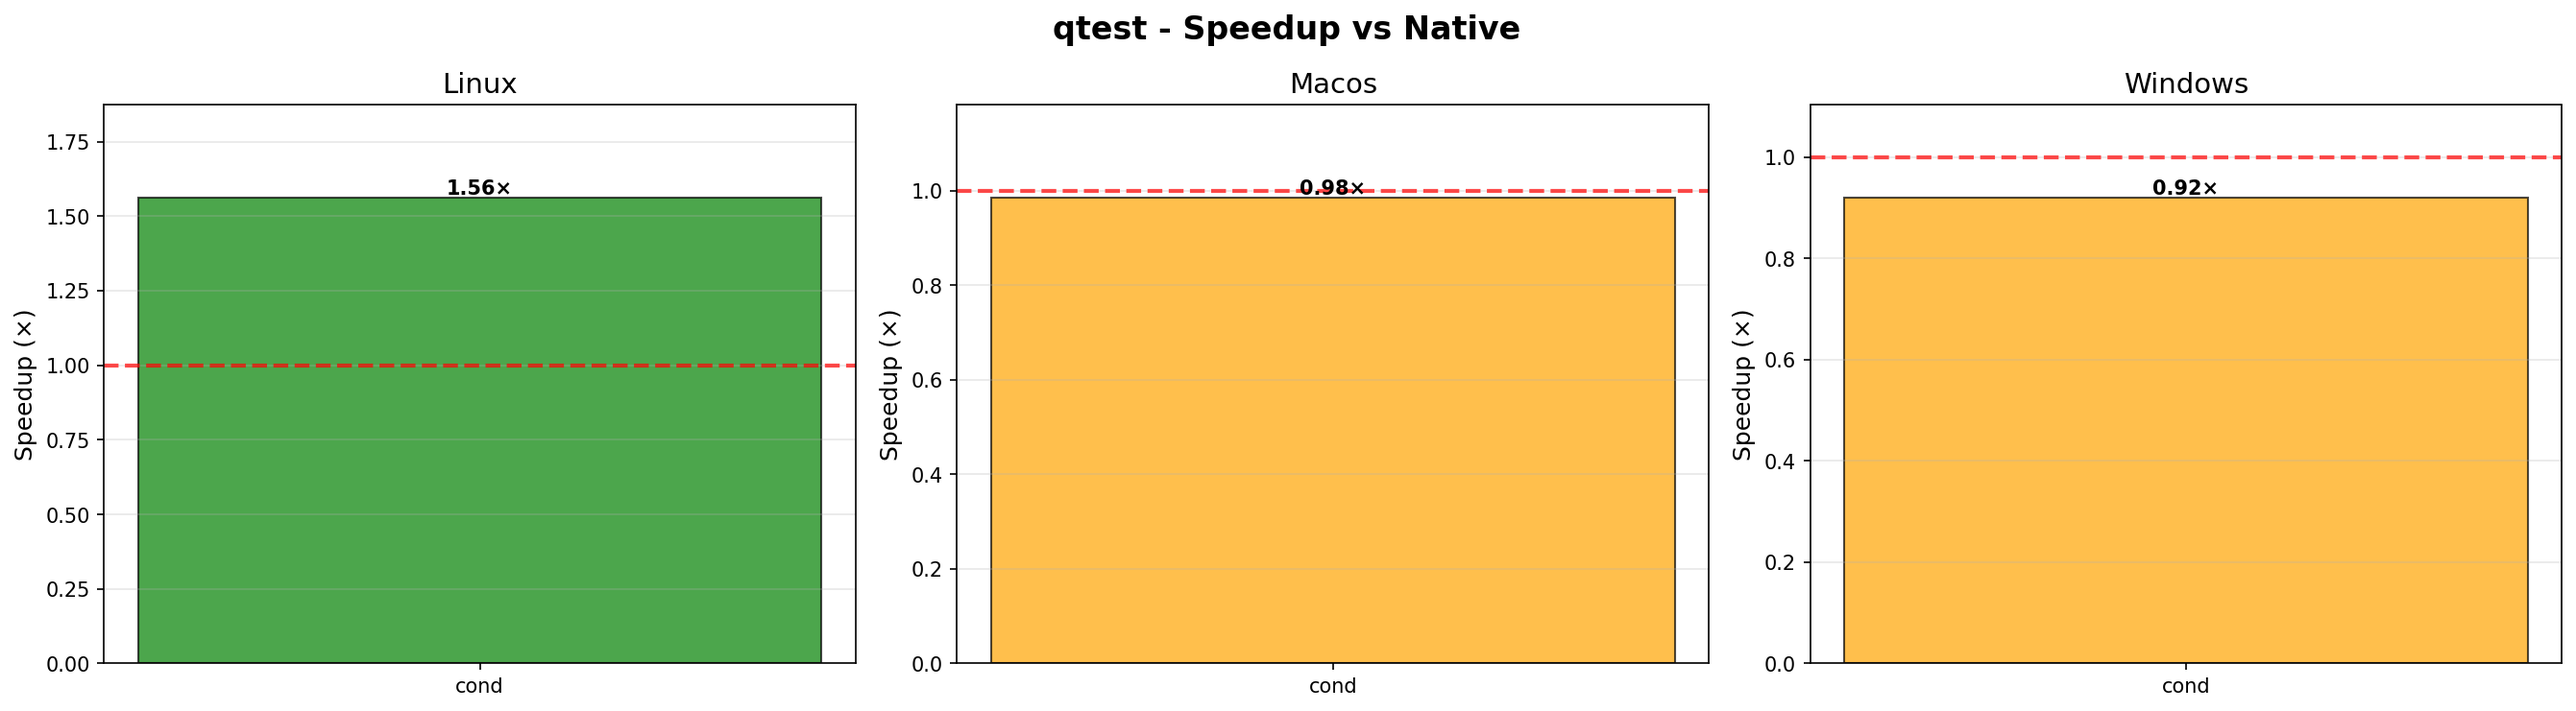
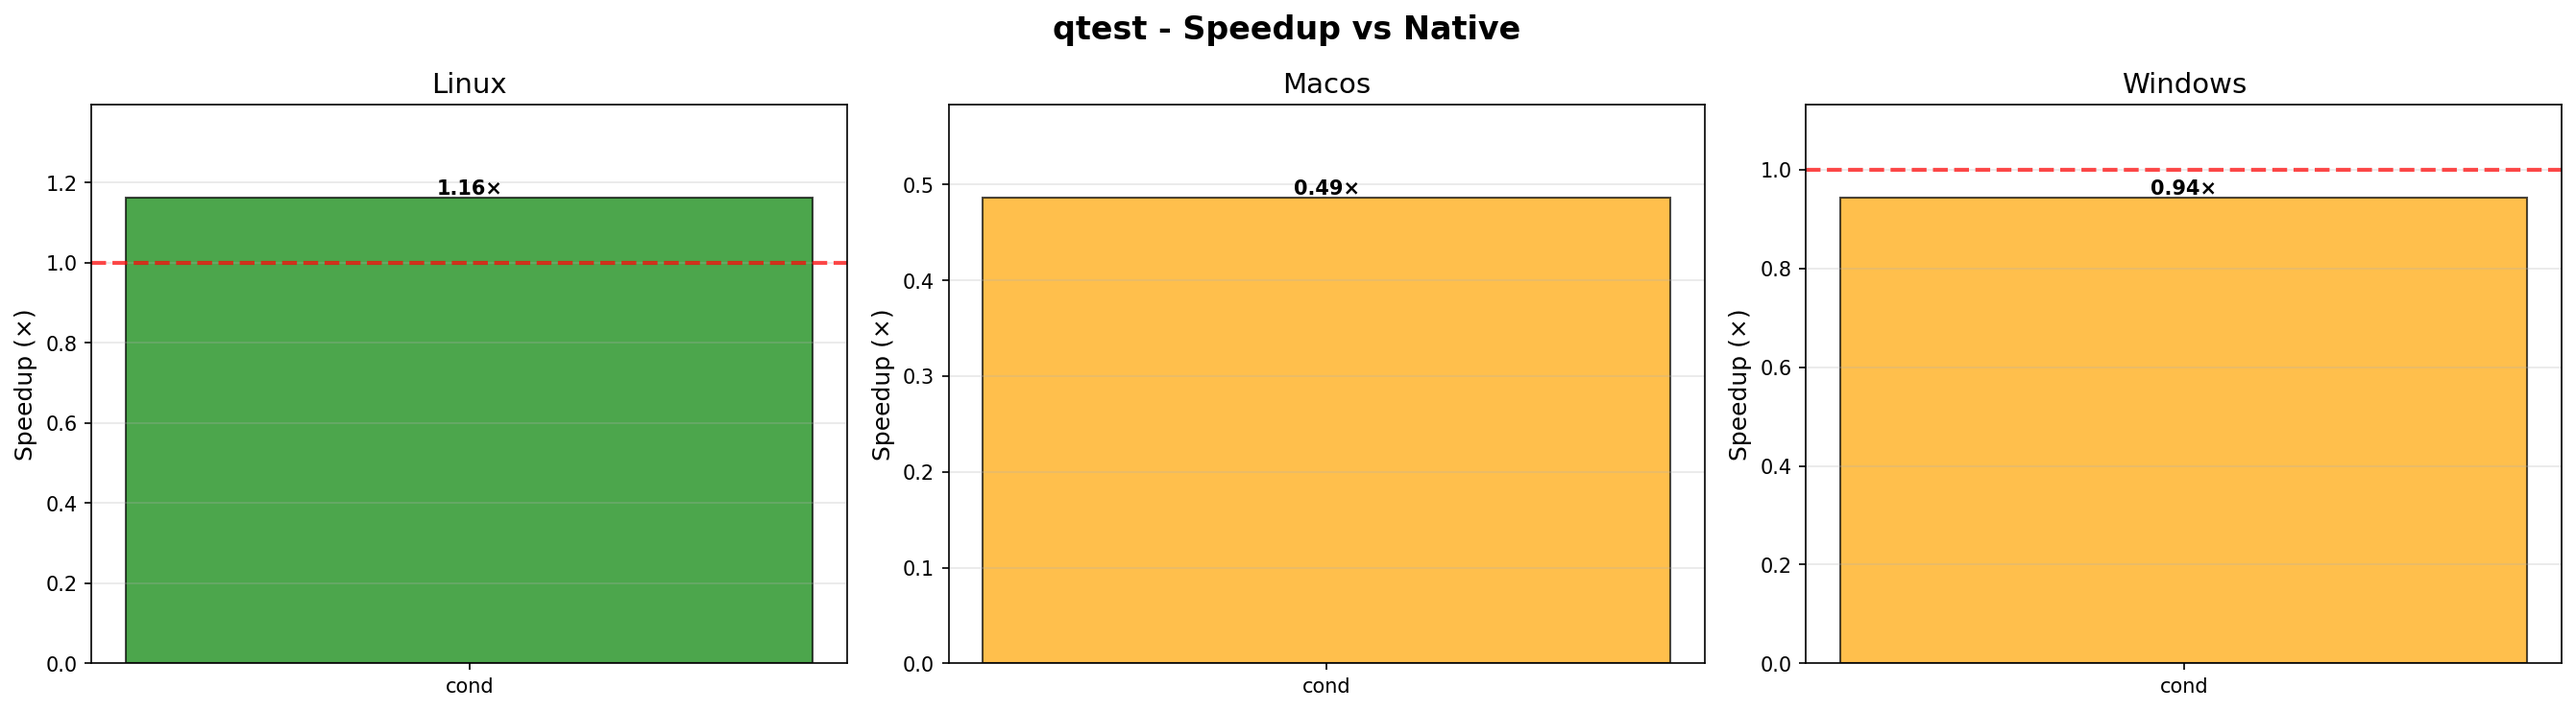
deploy: 0f0b938d1de918af7fa1bbf5fc2d698d0bd04238

diff --git a/performance/index.html b/performance/index.html
@@ -135,7 +135,7 @@
     </ul>
     
     <div class="footer">
-        <p>Generated: 2025-10-27 23:29:52 UTC</p>
+        <p>Generated: 2025-10-28 08:27:50 UTC</p>
         <p>Repository: <a href="https://github.com/kristjanvalur/fastcond">kristjanvalur/fastcond</a></p>
         <p>Documentation: <a href="https://github.com/kristjanvalur/fastcond#readme">README</a></p>
     </div>

diff --git a/performance/performance-comparison.md b/performance/performance-comparison.md
@@ -2,31 +2,31 @@
 
 | Platform | Test | Threads | Variant | Throughput (ops/sec) | Speedup vs Native |
 |----------|------|---------|---------|---------------------|-------------------|
-| linux | gil_test | 4 | fastcond_gil | 5,680 | N/A |
-| linux | gil_test | 4 | fastcond_gil | 5,759 | N/A |
-| linux | gil_test | 4 | native_gil | 5,765 | N/A |
-| linux | gil_test | 4 | native_gil | 6,029 | N/A |
+| linux | gil_test | 4 | fastcond_gil | 5,707 | N/A |
+| linux | gil_test | 4 | fastcond_gil | 5,734 | N/A |
 | linux | gil_test | 4 | native_gil | 5,715 | N/A |
-| linux | gil_test | 4 | native_gil | 6,014 | N/A |
-| linux | qtest | 4 | fastcond_cond | 703,605 | 1.53x |
-| linux | qtest | 4 | fastcond_cond | 735,455 | 1.59x |
-| linux | qtest | 4 | native | 461,133 | 1.00x |
-| linux | qtest | 4 | native | 577,524 | 1.25x |
-| linux | strongtest | 1 | fastcond_cond | 1,362,579 | 1.07x |
-| linux | strongtest | 1 | fastcond_cond | 1,406,397 | 1.10x |
-| linux | strongtest | 1 | native | 1,275,834 | 1.00x |
-| linux | strongtest | 1 | native | 938,653 | 0.74x |
-| macos | gil_test | 4 | fastcond_gil | 667 | N/A |
-| macos | gil_test | 4 | native_gil | 1,342 | N/A |
-| macos | gil_test | 4 | native_gil | 966 | N/A |
-| macos | qtest | 4 | fastcond_cond | 480,261 | 0.98x |
-| macos | qtest | 4 | native | 488,162 | 1.00x |
-| macos | strongtest | 1 | fastcond_cond | 1,617,599 | 3.20x |
-| macos | strongtest | 1 | native | 505,791 | 1.00x |
-| windows | gil_test | 4 | fastcond_gil | 2,157 | N/A |
-| windows | gil_test | 4 | native_gil | 2,145 | N/A |
-| windows | gil_test | 4 | native_gil | 2,296 | N/A |
-| windows | qtest | 4 | fastcond_cond | 604,891 | 0.92x |
-| windows | qtest | 4 | native | 658,263 | 1.00x |
-| windows | strongtest | 1 | fastcond_cond | 2,451,701 | 1.23x |
-| windows | strongtest | 1 | native | 1,987,439 | 1.00x |
+| linux | gil_test | 4 | native_gil | 6,000 | N/A |
+| linux | gil_test | 4 | native_gil | 5,745 | N/A |
+| linux | gil_test | 4 | native_gil | 6,016 | N/A |
+| linux | qtest | 4 | fastcond_cond | 670,184 | 1.15x |
+| linux | qtest | 4 | fastcond_cond | 686,521 | 1.17x |
+| linux | qtest | 4 | native | 584,380 | 1.00x |
+| linux | qtest | 4 | native | 517,529 | 0.89x |
+| linux | strongtest | 1 | fastcond_cond | 1,377,929 | 1.34x |
+| linux | strongtest | 1 | fastcond_cond | 1,384,526 | 1.34x |
+| linux | strongtest | 1 | native | 1,031,772 | 1.00x |
+| linux | strongtest | 1 | native | 865,351 | 0.84x |
+| macos | gil_test | 4 | fastcond_gil | 830 | N/A |
+| macos | gil_test | 4 | native_gil | 1,278 | N/A |
+| macos | gil_test | 4 | native_gil | 1,433 | N/A |
+| macos | qtest | 4 | fastcond_cond | 248,157 | 0.49x |
+| macos | qtest | 4 | native | 510,777 | 1.00x |
+| macos | strongtest | 1 | fastcond_cond | 870,398 | 4.71x |
+| macos | strongtest | 1 | native | 184,891 | 1.00x |
+| windows | gil_test | 4 | fastcond_gil | 2,184 | N/A |
+| windows | gil_test | 4 | native_gil | 2,363 | N/A |
+| windows | gil_test | 4 | native_gil | 2,202 | N/A |
+| windows | qtest | 4 | fastcond_cond | 630,100 | 0.94x |
+| windows | qtest | 4 | native | 668,758 | 1.00x |
+| windows | strongtest | 1 | fastcond_cond | 2,300,808 | 0.91x |
+| windows | strongtest | 1 | native | 2,523,214 | 1.00x |
